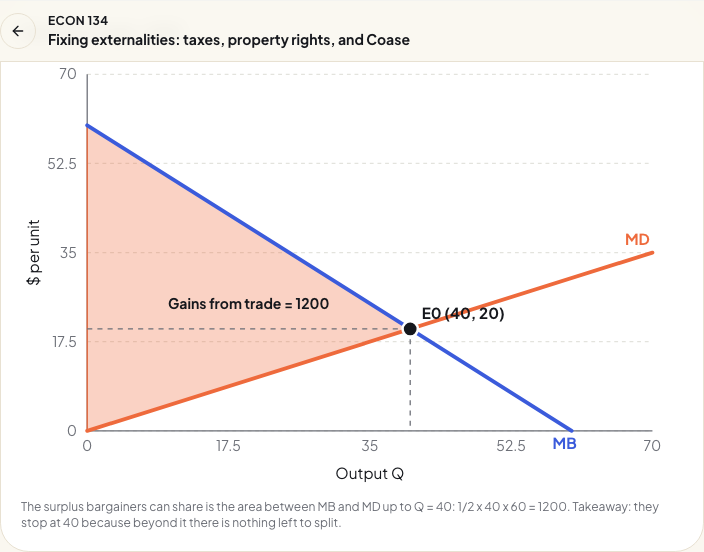
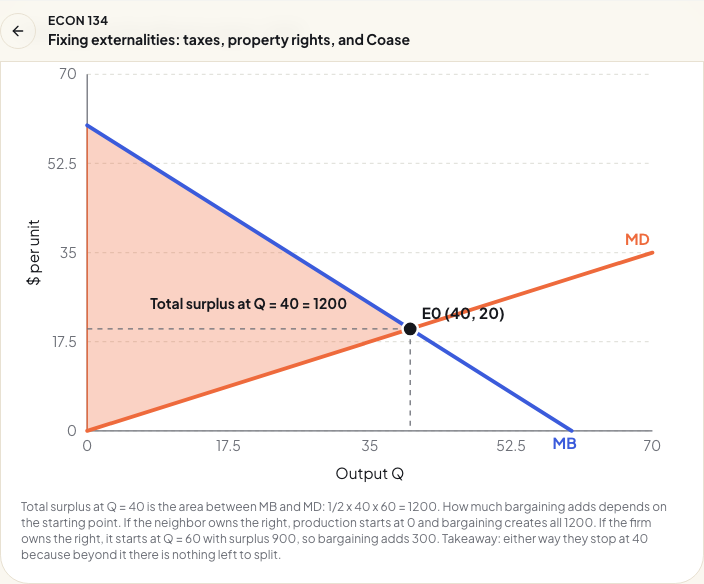
Fix Coase surplus framing, box example roles, and slider smoke check
Name the 1200 as total surplus at Q = 40 and explain both starting points (0 if the neighbor owns the right, 900 if the firm does, so bargaining adds 300). Restore the box example to the transcript's roles. Compare slider outputs exactly in the smoke script.

diff --git a/scripts/screenshots-econ134.ts b/scripts/screenshots-econ134.ts
@@ -48,7 +48,8 @@ const check = (n: string, ok: boolean, d = "") => results.push(`${ok ? "PASS" : 
   await s.fill("0");
   await page.waitForTimeout(250);
   const at0 = await out.innerText();
-  check("slider DWL 75 at tau=30, 0 at tau=20, 300 at tau=0", /75/.test(at30) && /^0/.test(at20.trim().replace(/[^0-9.]/g, "")) && /300/.test(at0), `${at30} | ${at20} | ${at0}`);
+  const num = (t: string) => Number(t.trim().replace(/[^0-9.-]/g, ""));
+  check("slider DWL 75 at tau=30, 0 at tau=20, 300 at tau=0", num(at30) === 75 && num(at20) === 0 && num(at0) === 300, `${at30} | ${at20} | ${at0}`);
   await s.fill("30");
   await page.waitForTimeout(250);
   check("step 3 overtax graph", (await page.locator("svg[aria-label='Too high: τ = D′(Q_M) = 30']").count()) === 1);
@@ -60,7 +61,7 @@ const check = (n: string, ok: boolean, d = "") => results.push(`${ok ? "PASS" : 
   await next();
   await page.getByTestId("scenario").getByRole("button").nth(1).click();
   check("step 5 scenario outcome", await page.getByTestId("scenario-outcome").isVisible());
-  await shot("step5-coase-gains", "Gains from trade = 1200");
+  await shot("step5-coase-gains", "Total surplus at the efficient output = 1200");
   await shot("step5-coase-scenario");
   await next();
   check("step 6 news block", (await page.getByText("EnerKnol").count()) > 0);
